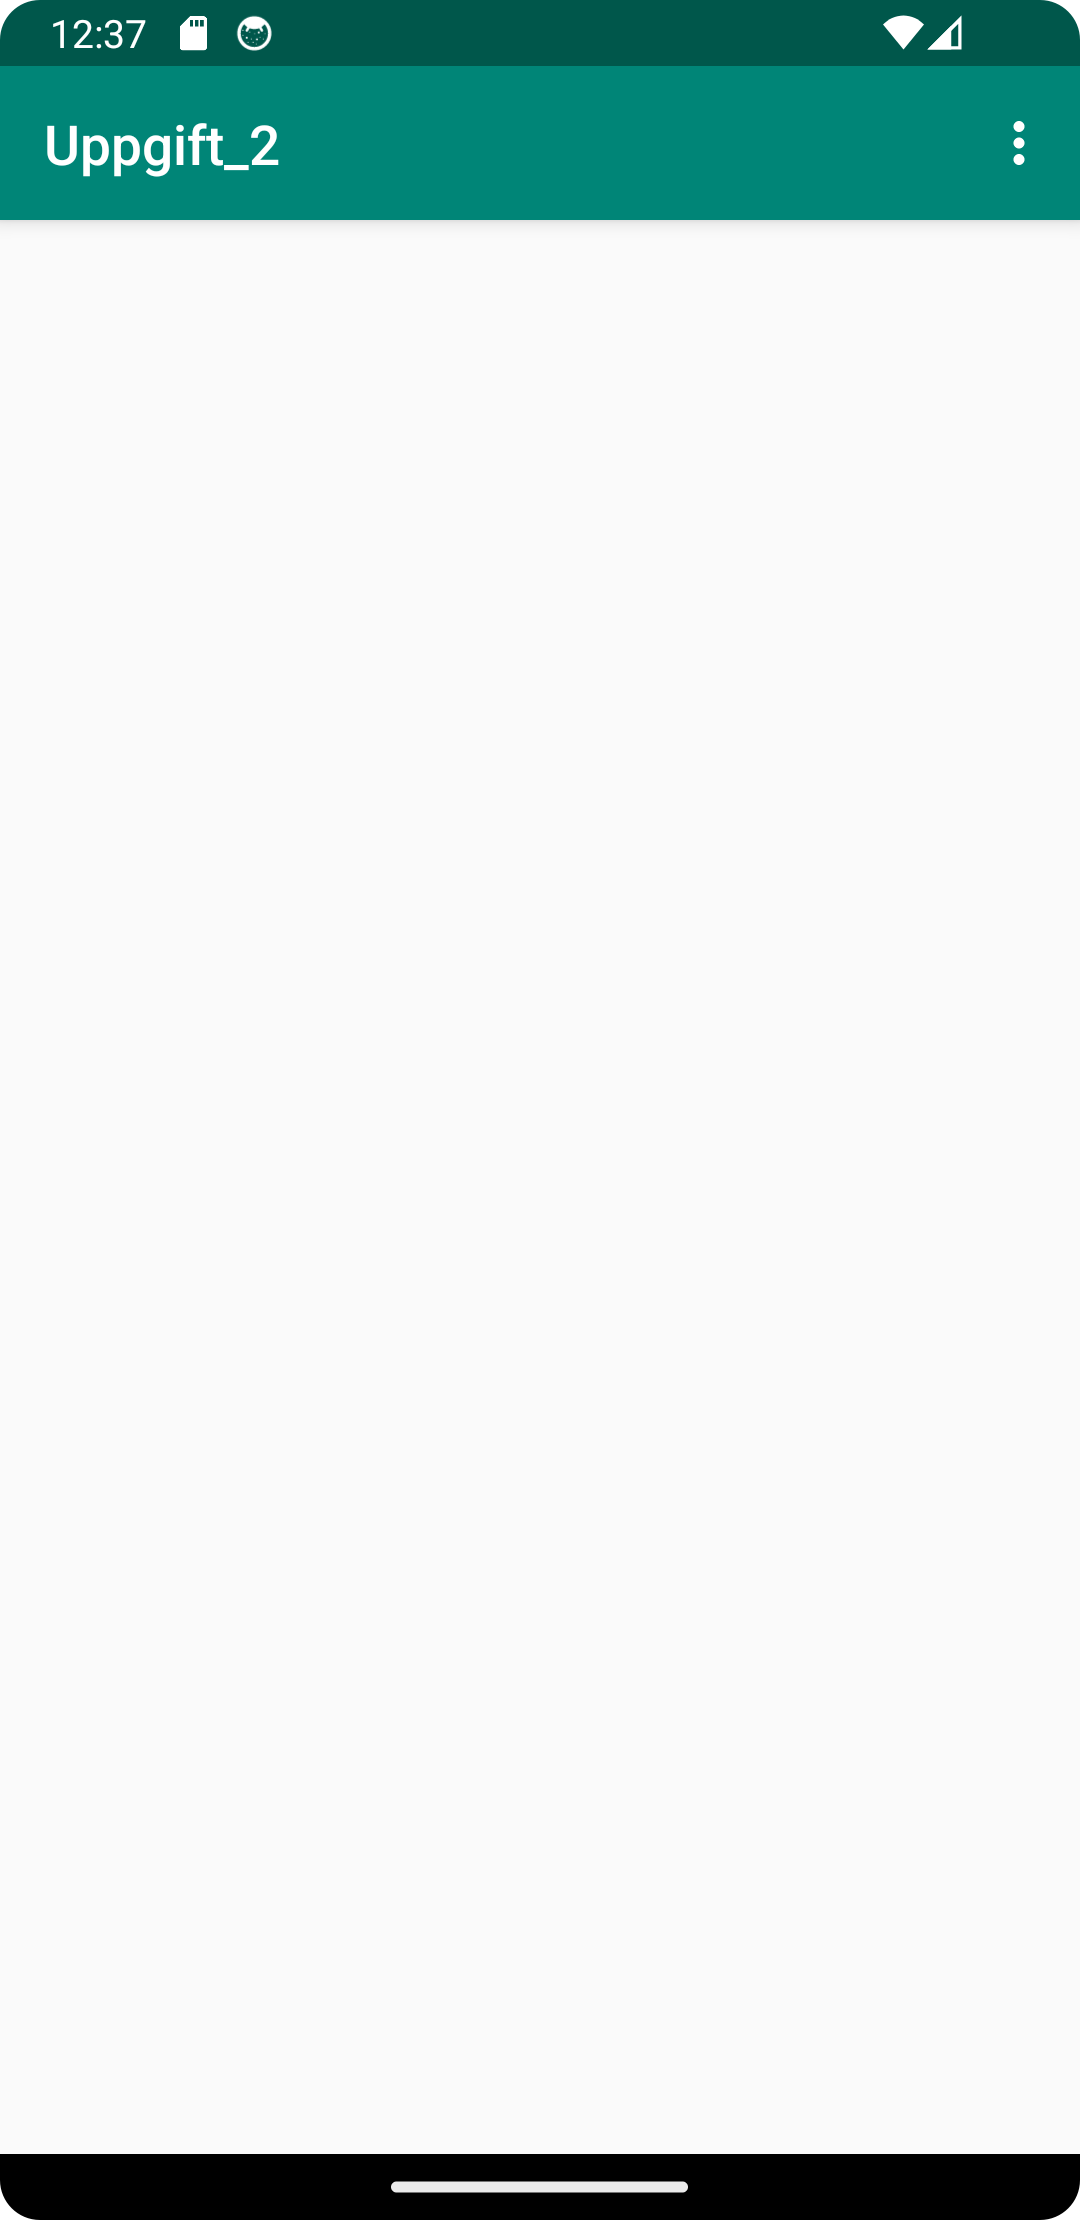
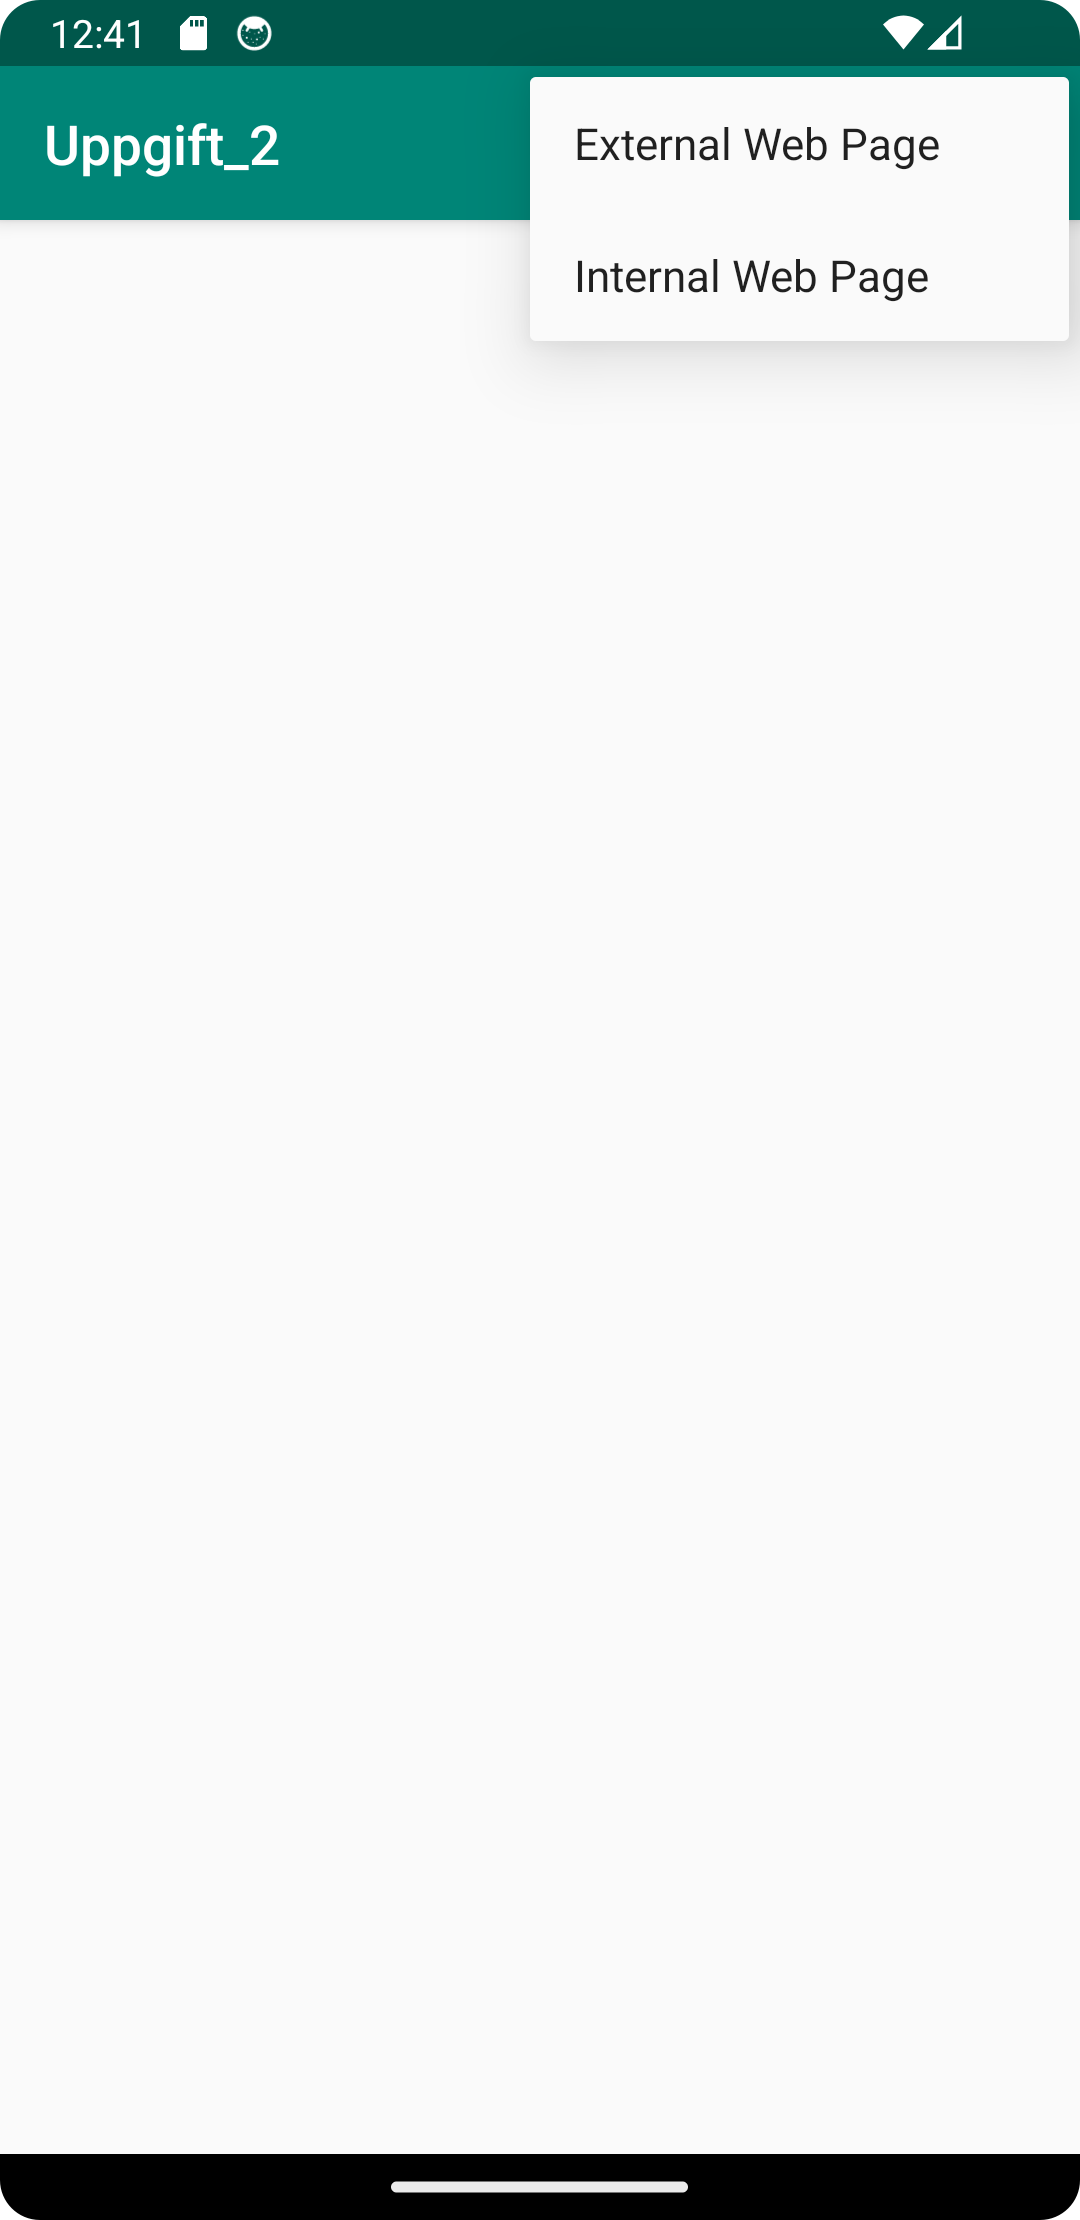
Uppdaterade README.md och lade in skärmdumpar.

Changed region(s): [[0.4889, 0.0311, 1.0, 0.1554], [0.0917, 0.0, 0.1222, 0.0311]]

diff --git a/README.md b/README.md
@@ -1,42 +1,24 @@
 
 # Rapport
-
-**Skriv din rapport här!**
-
-_Du kan ta bort all text som finns sedan tidigare_.
-
-## Följande grundsyn gäller dugga-svar:
-
-- Ett kortfattat svar är att föredra. Svar som är längre än en sida text (skärmdumpar och programkod exkluderat) är onödigt långt.
-- Svaret skall ha minst en snutt programkod.
-- Svaret skall inkludera en kort övergripande förklarande text som redogör för vad respektive snutt programkod gör eller som svarar på annan teorifråga.
-- Svaret skall ha minst en skärmdump. Skärmdumpar skall illustrera exekvering av relevant programkod. Eventuell text i skärmdumpar måste vara läsbar.
-- I de fall detta efterfrågas, dela upp delar av ditt svar i för- och nackdelar. Dina för- respektive nackdelar skall vara i form av punktlistor med kortare stycken (3-4 meningar).
-
-Programkod ska se ut som exemplet nedan. Koden måste vara korrekt indenterad då den blir lättare att läsa vilket gör det lättare att hitta syntaktiska fel.
-
+Jag började med att byta namn på appen till "Uppgift_2".Sedan lade jag till internetåtkomst för appen. Efter det skapade jag en WebView och gav den ID't my_WebView.
+I kodexemplet nedan skapade jag en privat member variabel och instantierade den. Inuti samma kodexempel skapade jag WebViewClient samt tillät körning av JavaScript.
 ```
-function errorCallback(error) {
-    switch(error.code) {
-        case error.PERMISSION_DENIED:
-            // Geolocation API stöds inte, gör något
-            break;
-        case error.POSITION_UNAVAILABLE:
-            // Misslyckat positionsanrop, gör något
-            break;
-        case error.UNKNOWN_ERROR:
-            // Okänt fel, gör något
-            break;
-    }
-}
-```
+private WebView myWebView;
 
-Bilder läggs i samma mapp som markdown-filen.
+    @Override
+    protected void onCreate(Bundle savedInstanceState) {
+        super.onCreate(savedInstanceState);
+        setContentView(R.layout.activity_main);
+        Toolbar toolbar = findViewById(R.id.toolbar);
+        setSupportActionBar(toolbar);
+
+        myWebView = findViewById(R.id.my_WebView);
+        myWebView.setWebViewClient(new WebViewClient());
+        myWebView.getSettings().setJavaScriptEnabled(true);
+```
+Jag lade in tidigare HTML filer + bilder från en tidigare kurs. Alla bilder har relevant licensinformation inuti [info_bild](app/src/main/assets/info_bild).
+
 
 ![Screenshot_20240412_143738.png](Screenshot_20240412_143738.png)
-
-Läs gärna:
-
-- Boulos, M.N.K., Warren, J., Gong, J. & Yue, P. (2010) Web GIS in practice VIII: HTML5 and the canvas element for interactive online mapping. International journal of health geographics 9, 14. Shin, Y. &
-- Wunsche, B.C. (2013) A smartphone-based golf simulation exercise game for supporting arthritis patients. 2013 28th International Conference of Image and Vision Computing New Zealand (IVCNZ), IEEE, pp. 459–464.
-- Wohlin, C., Runeson, P., Höst, M., Ohlsson, M.C., Regnell, B., Wesslén, A. (2012) Experimentation in Software Engineering, Berlin, Heidelberg: Springer Berlin Heidelberg.
+![screenshot_internal_webpage.png](screenshot_internal_webpage.png)
+![screenshot_external_webpage.png](screenshot_external_webpage.png)
